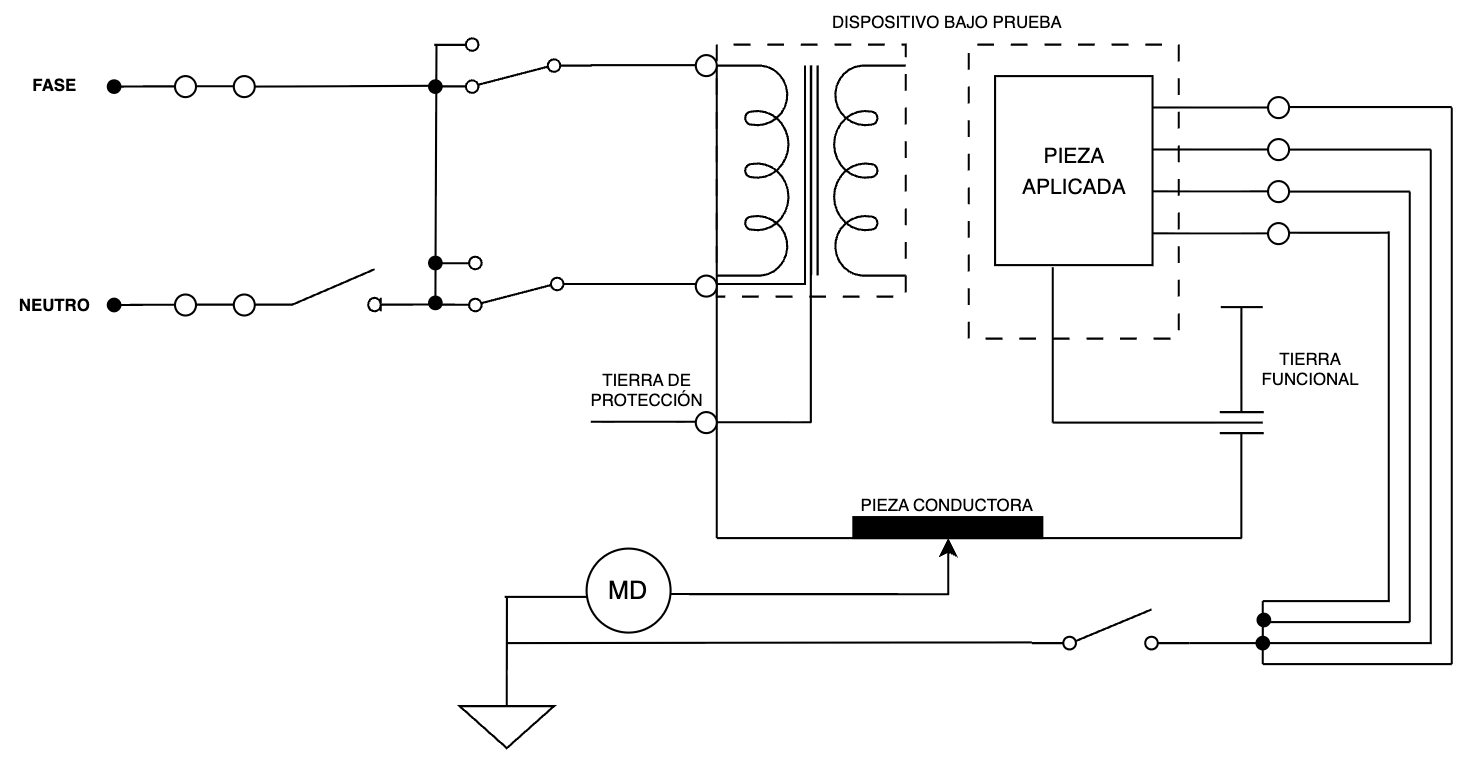
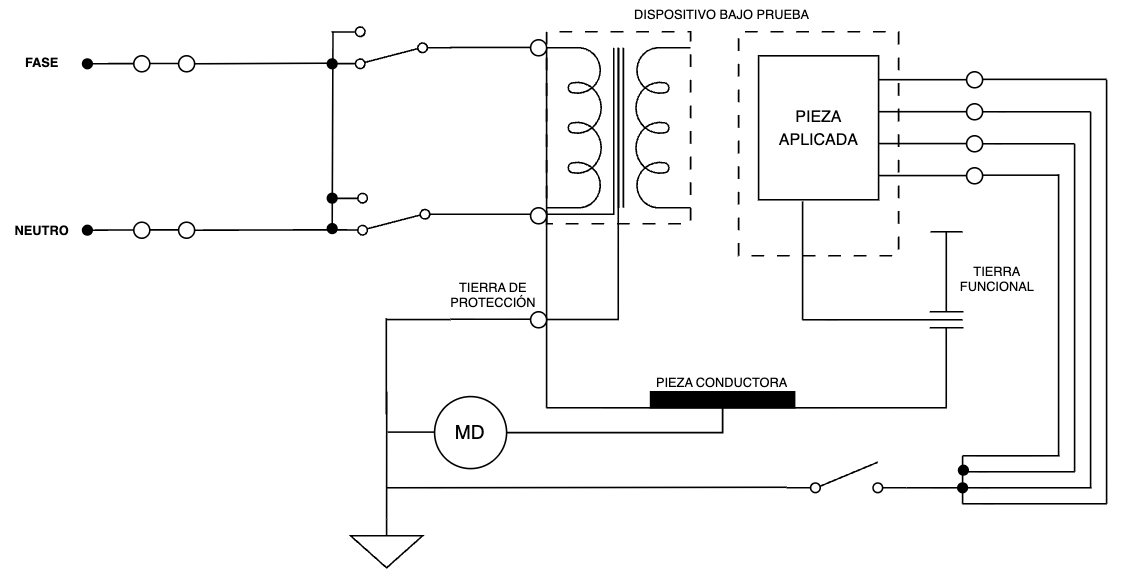
Actualiza anexo y figuras

diff --git a/secciones/anexo.tex b/secciones/anexo.tex
@@ -1,5 +1,14 @@
 \section{Anexo A: Esquemas de conexionado de los instrumentos}
 
+\subsection{Medición de resistencia a tierra}
+
+\begin{figure}[H]
+    \centering
+    \includegraphics[width=0.75\textwidth]{figuras/Resistencia/Resistencia_a_Tierra.png}
+    \caption{Ensayo de corriente de fuga de parte aplicada a tierra.}
+    \label{fig:fuga_pa_tierra}
+\end{figure}
+
 \subsection{Ensayos de corrientes de fuga}
 
 \begin{figure}[H]
@@ -11,14 +20,14 @@
 
 \begin{figure}[H]
     \centering
-    \includegraphics[width=0.75\textwidth]{figuras/Fuga/PE_a_Tierra.png}
+    \includegraphics[width=0.75\textwidth]{figuras/Fuga/PE.png}
     \caption{Ensayo de corriente de fuga de tierra de protección.}
     \label{fig:fuga_pe_tierra}
 \end{figure}
 
 \begin{figure}[H]
     \centering
-    \includegraphics[width=0.75\textwidth]{figuras/Fuga/Entre_PA.png}
+    \includegraphics[width=0.75\textwidth]{figuras/Fuga/Entre_PAs.png}
     \caption{Ensayo de corriente de fuga entre partes aplicadas.}
     \label{fig:fuga_entre_pa}
 \end{figure}
@@ -33,23 +42,23 @@
 
 \subsection{Ensayos de resistencia de aislamiento}
 
-% \begin{figure}[H]
-%     \centering
-%     \includegraphics[width=0.75\textwidth]{figuras/Aislamiento/PA_a_PE.png}
-%     \caption{Ensayo de resistencia de aislamiento entre parte aplicada y tierra de protección.}
-%     \label{fig:aislamiento_pa_pe}
-% \end{figure}
+\begin{figure}[H]
+    \centering
+    \includegraphics[width=0.75\textwidth]{figuras/Aislamiento/PA_a_Neutro.png}
+    \caption{Ensayo de resistencia de aislamiento entre parte aplicada y neutro.}
+    \label{fig:aislamiento_pa_pe}
+\end{figure}
 
 \begin{figure}[H]
     \centering
-    \includegraphics[width=0.75\textwidth]{figuras/Aislamiento/PA_a_PE_v2.png}
+    \includegraphics[width=0.75\textwidth]{figuras/Aislamiento/PA_a_PE.png}
     \caption{Ensayo de resistencia de aislamiento entre parte aplicada y tierra de protección.}
     \label{fig:aislamiento_pa_pe_v2}
 \end{figure}
 
 \begin{figure}[H]
     \centering
-    \includegraphics[width=0.75\textwidth]{figuras/Aislamiento/PA_a_Fase.png}
+    \includegraphics[width=0.75\textwidth]{figuras/Aislamiento/Fase_a_Tierra.png}
     \caption{Ensayo de resistencia de aislamiento entre parte aplicada y fase.}
     \label{fig:aislamiento_pa_fase}
 \end{figure}

diff --git a/secciones/bibliografía.tex b/secciones/bibliografía.tex
@@ -1,5 +1,5 @@
 \section{Bibliografía}
 
 [1] Rigel Medical, A Practical Guide to IEC 60601. [Online]. 
-Disponible en: https://www.rigelmedical.com/wp-content/uploads/sites/3/2025/04/a-practical-guide-to-iec-60601-rige
-l-medical-pdf-62b57fe02e7a1.pdf
+Disponible en: 
+\url{https://www.rigelmedical.com/wp-content/uploads/sites/3/2025/04/a-practical-guide-to-iec-60601-rigel-medical-pdf-62b57fe02e7a1.pdf}

diff --git a/TP1.tex b/TP1.tex
@@ -23,6 +23,8 @@
 \usepackage{float}
 \usepackage{subcaption}
 \usepackage{booktabs}
+\usepackage{xurl}
+\usepackage[hidelinks]{hyperref}
 
 
 \newcommand{\HRule}{\rule{\linewidth}{0.5mm}}
@@ -119,6 +121,8 @@
 \input{secciones/practica}
 \input{secciones/resultados}
 \input{secciones/conclusiones}
+
+\newpage
 \input{secciones/bibliografía}
 
 \newpage
